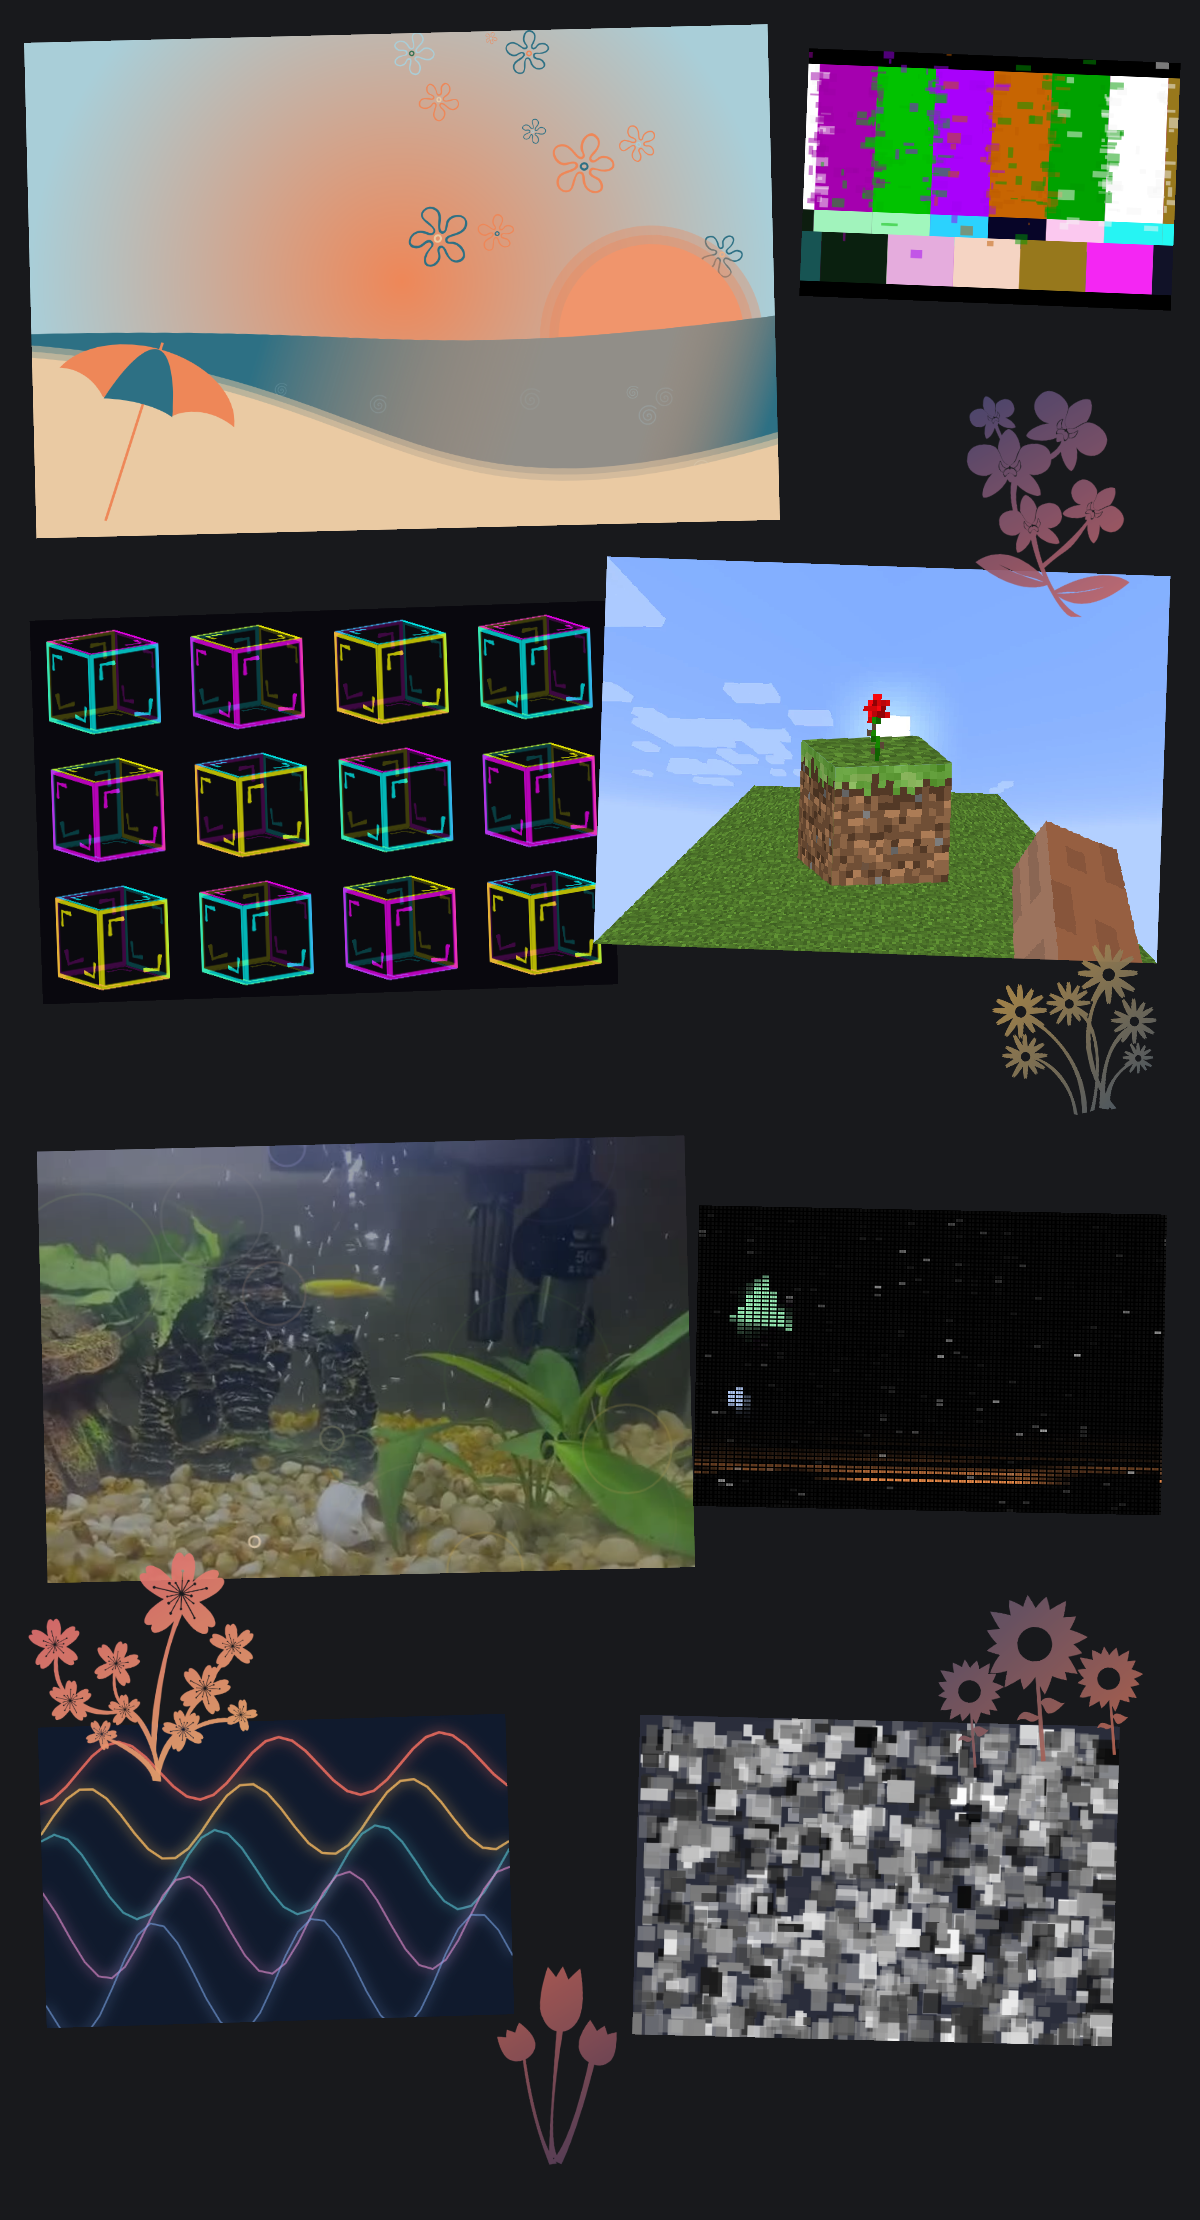
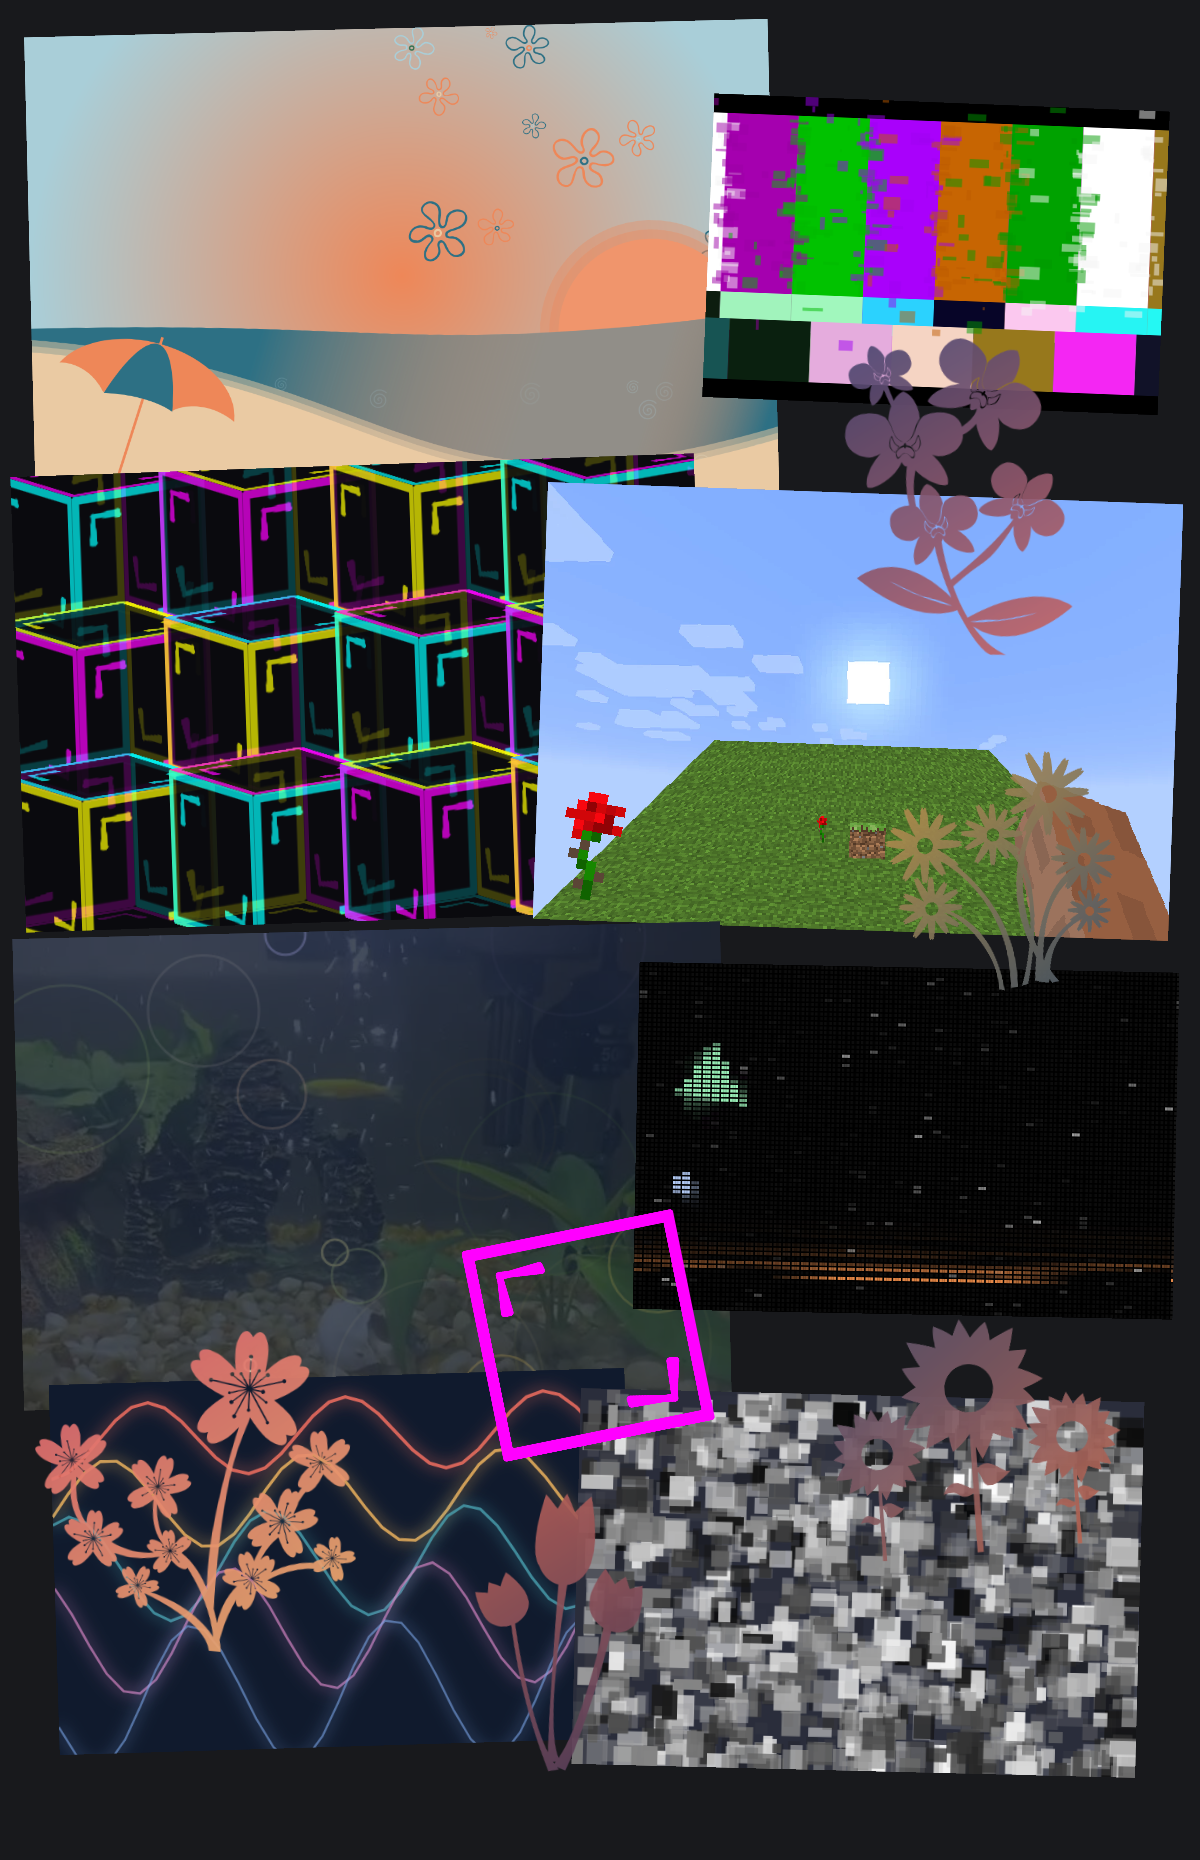
Refine Living Sketchbook collage and looping block animation

diff --git a/lib/curated-collage.js b/lib/curated-collage.js
@@ -28,9 +28,10 @@ export const artworkAssets = [
   '/projects/drawing-selected/minecraft/rose.png',
   '/projects/drawing-selected/minecraft/steve-hand.png',
   '/projects/drawing-selected/fish/poster.jpg',
+  '/projects/drawing-selected/minecraft/9.png',
 ];
 
-export const collageRatio = (narrow) => (narrow ? 5.65 : 1.85);
+export const collageRatio = (narrow) => (narrow ? 4.55 : 1.55);
 export const artworkNames = [
   'Beach',
   'Television',
@@ -55,13 +56,13 @@ export function collageLayout(narrow) {
       ]
     : [
         [0.025, 0.015, 0.62, -0.025],
-        [0.67, 0.025, 0.31, 0.04],
-        [0.03, 0.275, 0.48, -0.035],
-        [0.5, 0.255, 0.47, 0.035],
-        [0.035, 0.515, 0.54, -0.025],
-        [0.58, 0.545, 0.39, 0.02],
-        [0.035, 0.775, 0.39, -0.03],
-        [0.53, 0.775, 0.4, 0.025],
+        [0.59, 0.055, 0.38, 0.04],
+        [0.015, 0.25, 0.57, -0.035],
+        [0.45, 0.265, 0.53, 0.035],
+        [0.015, 0.50, 0.59, -0.025],
+        [0.53, 0.52, 0.45, 0.02],
+        [0.045, 0.74, 0.48, -0.03],
+        [0.48, 0.75, 0.47, 0.025],
       ];
 }
 /** @param {HTMLVideoElement | null} video */
@@ -139,13 +140,14 @@ export function createArtwork(
       study(beach, images[0], 1200, 800),
       study(television, images[1]),
       createIce(makeCanvas, images.slice(7, 10), requestAnimationFrame),
-      createMinecraft(makeCanvas, images.slice(10, 17), requestAnimationFrame),
+      createMinecraft(makeCanvas, [...images.slice(10, 17), images[18]], requestAnimationFrame),
       createFish(makeCanvas, video, images[17], requestAnimationFrame),
       study(channels),
       study(waves),
       study(particles),
     ],
     decorations: images.slice(2, 7).map(flowerDecoration),
+    stickers: [images[15], images[8]],
   };
 }
 
@@ -168,21 +170,21 @@ export function paintCollage(context, artwork, width, height, narrow) {
   const flowerLayout = narrow
     ? [
         [0.01, 0.11, 0.25, -0.18],
-        [0.73, 0.225, 0.25, 0.12],
+        [0.61, 0.225, 0.25, 0.12],
         [0.01, 0.46, 0.26, 0.1],
-        [0.71, 0.697, 0.27, -0.1],
-        [0.34, 0.934, 0.24, 0.06],
+        [0.60, 0.697, 0.27, -0.1],
+        [0.32, 0.885, 0.24, 0.06],
       ]
     : [
-        [0.76, 0.145, 0.23, 0.12],
-        [0.8, 0.405, 0.19, -0.1],
+        [0.64, 0.13, 0.23, 0.12],
+        [0.7, 0.37, 0.19, -0.1],
         [0.01, 0.675, 0.23, 0.08],
-        [0.75, 0.665, 0.23, -0.08],
-        [0.36, 0.86, 0.21, 0.1],
+        [0.65, 0.62, 0.23, -0.08],
+        [0.32, 0.76, 0.21, 0.1],
       ];
   decorations.forEach((flower, index) => {
     const [x, y, size, angle] = flowerLayout[index];
-    const dw = width * size,
+    const dw = width * size * 1.4,
       dh = (dw * flower.height) / flower.width;
     context.save();
     context.translate(width * x + dw / 2, height * y + dh / 2);
@@ -191,4 +193,18 @@ export function paintCollage(context, artwork, width, height, narrow) {
     context.drawImage(flower, -dw / 2, -dh / 2, dw, dh);
     context.restore();
   });
+  const stickerLayout = narrow
+    ? [[0.72, 0.33, 0.20, 0.18], [0.02, 0.76, 0.27, -0.2]]
+    : [[0.43, 0.40, 0.13, 0.18], [0.40, 0.66, 0.18, -0.2]];
+  artwork.stickers.forEach((sticker, i) => {
+    const [x, y, size, angle] = stickerLayout[i];
+    const dw = width * size, dh = dw * sticker.height / sticker.width;
+    context.save();
+    context.translate(width * x + dw / 2, height * y + dh / 2);
+    context.rotate(angle);
+    context.imageSmoothingEnabled = i !== 0;
+    context.drawImage(sticker, -dw / 2, -dh / 2, dw, dh);
+    context.restore();
+  });
+
 }

diff --git a/lib/canvas-studies/textured-scenes.js b/lib/canvas-studies/textured-scenes.js
@@ -121,7 +121,7 @@ export function createIce(makeCanvas, images, request) {
         order,
         x,
         y,
-        51,
+        83,
         0.34 + Math.sin(phase) * 0.23,
         -0.28 + Math.cos(phase * 0.8) * 0.12,
         true,
@@ -134,7 +134,7 @@ export function createIce(makeCanvas, images, request) {
 }
 
 export function createMinecraft(makeCanvas, images, request) {
-  const [sky, terrain, grass, top, dirt, rose, hand] = images;
+  const [sky, terrain, grass, top, dirt, rose, hand, cracks] = images;
   const canvas = makeCanvas(640, 440),
     ctx = canvas.getContext('2d');
   canvas.pixelArt = true;
@@ -158,24 +158,43 @@ export function createMinecraft(makeCanvas, images, request) {
       1,
     );
   }
-  let phase = 0;
+  // Cache progressive crack intensity from the supplied breaking texture.
+  const stages = Array.from({ length: 10 }, (_, stage) =>
+    [grass, grass, grass, grass, top, dirt].map((texture) => {
+      const face = makeCanvas(128, 128), x = face.getContext('2d');
+      x.imageSmoothingEnabled = false;
+      x.drawImage(texture, 0, 0, 128, 128);
+      x.globalCompositeOperation = 'multiply';
+      x.globalAlpha = (stage + 1) / 10;
+      x.drawImage(cracks, 0, 0, 128, 128);
+      return face;
+    }),
+  );
+  let frame = 0;
   const draw = () => {
-    phase += 0.016;
+    // At 30 fps: hold, punch/crack for 1.5 seconds, drop items, reset.
+    const cycle = frame++ % 150;
+    const breaking = cycle >= 36 && cycle < 81;
+    const broken = cycle >= 81;
     ctx.imageSmoothingEnabled = false;
     ctx.drawImage(background, 0, 0);
-    const yaw = 0.12 + Math.sin(phase * 0.65) * 0.21;
-    cube(
-      ctx,
-      [grass, grass, grass, grass, top, dirt],
-      314,
-      278,
-      69,
-      yaw,
-      -0.23,
-    );
-    // Supplied crossed rose sprite, positioned on the cube's top face.
-    ctx.drawImage(rose, 272, 107 + Math.sin(phase) * 3, 80, 111);
-    ctx.drawImage(hand, 469 + Math.sin(phase) * 3, 282, 161, 195);
+    if (!broken) {
+      const textures = breaking
+        ? stages[Math.min(9, Math.floor((cycle - 36) / 4.5))]
+        : [grass, grass, grass, grass, top, dirt];
+      cube(ctx, textures, 314, 278, 69, 0, -Math.PI / 18);
+      ctx.drawImage(rose, 272, 107, 80, 111);
+    } else {
+      const bob = Math.sin((cycle - 81) * 0.12) * 4;
+      cube(ctx, [grass, grass, grass, grass, top, dirt], 334, 343 + bob, 18, 0, -Math.PI / 18);
+      ctx.drawImage(rose, 274, 310 + bob, 28, 39);
+    }
+    const punch = breaking ? Math.sin(((cycle - 36) % 12) / 12 * Math.PI) : 0;
+    ctx.save();
+    ctx.translate(469 - punch * 80, 282 - punch * 40);
+    ctx.transform(1, -punch * 0.15, 0.2, 1, 0, 0);
+    ctx.drawImage(hand, 0, 0, 161, 195);
+    ctx.restore();
     request(draw, canvas);
   };
   draw();

diff --git a/lib/canvas-studies/fish-ripples.js b/lib/canvas-studies/fish-ripples.js
@@ -11,7 +11,7 @@ export function createFish(makeCanvas, video, poster, request) {
     const source = video && video.readyState >= 2 ? video : poster;
     ctx.globalAlpha = 1;
     ctx.drawImage(source, 0, 0, 600, 400);
-    ctx.fillStyle = 'rgba(25,35,51,0.42)';
+    ctx.fillStyle = 'rgba(25,35,51,0.80)';
     ctx.fillRect(0, 0, 600, 400);
     if (frame++ % 4 === 0) {
       sampler.drawImage(source, 0, 0, 60, 40);

diff --git a/app/page.tsx b/app/page.tsx
@@ -255,7 +255,7 @@ export default function Home() {
                 {
                   id: 'canvas',
                   n: '01',
-                  title: 'Drawing on the Web',
+                  title: 'Living Sketchbook',
                   type: 'JavaScript / Canvas / SVG',
                   mark: 'Canvas',
                 },

diff --git a/components/collection-overlay.tsx b/components/collection-overlay.tsx
@@ -16,7 +16,7 @@ import { libraryItems } from '@/lib/library-data';
 
 type Collection = 'canvas' | 'games' | 'web' | 'index';
 const titles = {
-  canvas: 'Drawing on the Web',
+  canvas: 'Living Sketchbook',
   games: 'Creative work',
   web: 'Web applications',
   index: 'The library',

diff --git a/components/about-workbench.tsx b/components/about-workbench.tsx
@@ -22,7 +22,7 @@ const skills = [
     name: 'JavaScript',
     group: 'interface',
     use: 'Turning drawings into motion: particles, canvas compositions, and playful interactions.',
-    project: 'Drawing on the Web',
+    project: 'Living Sketchbook',
   },
   {
     id: 'html5',
